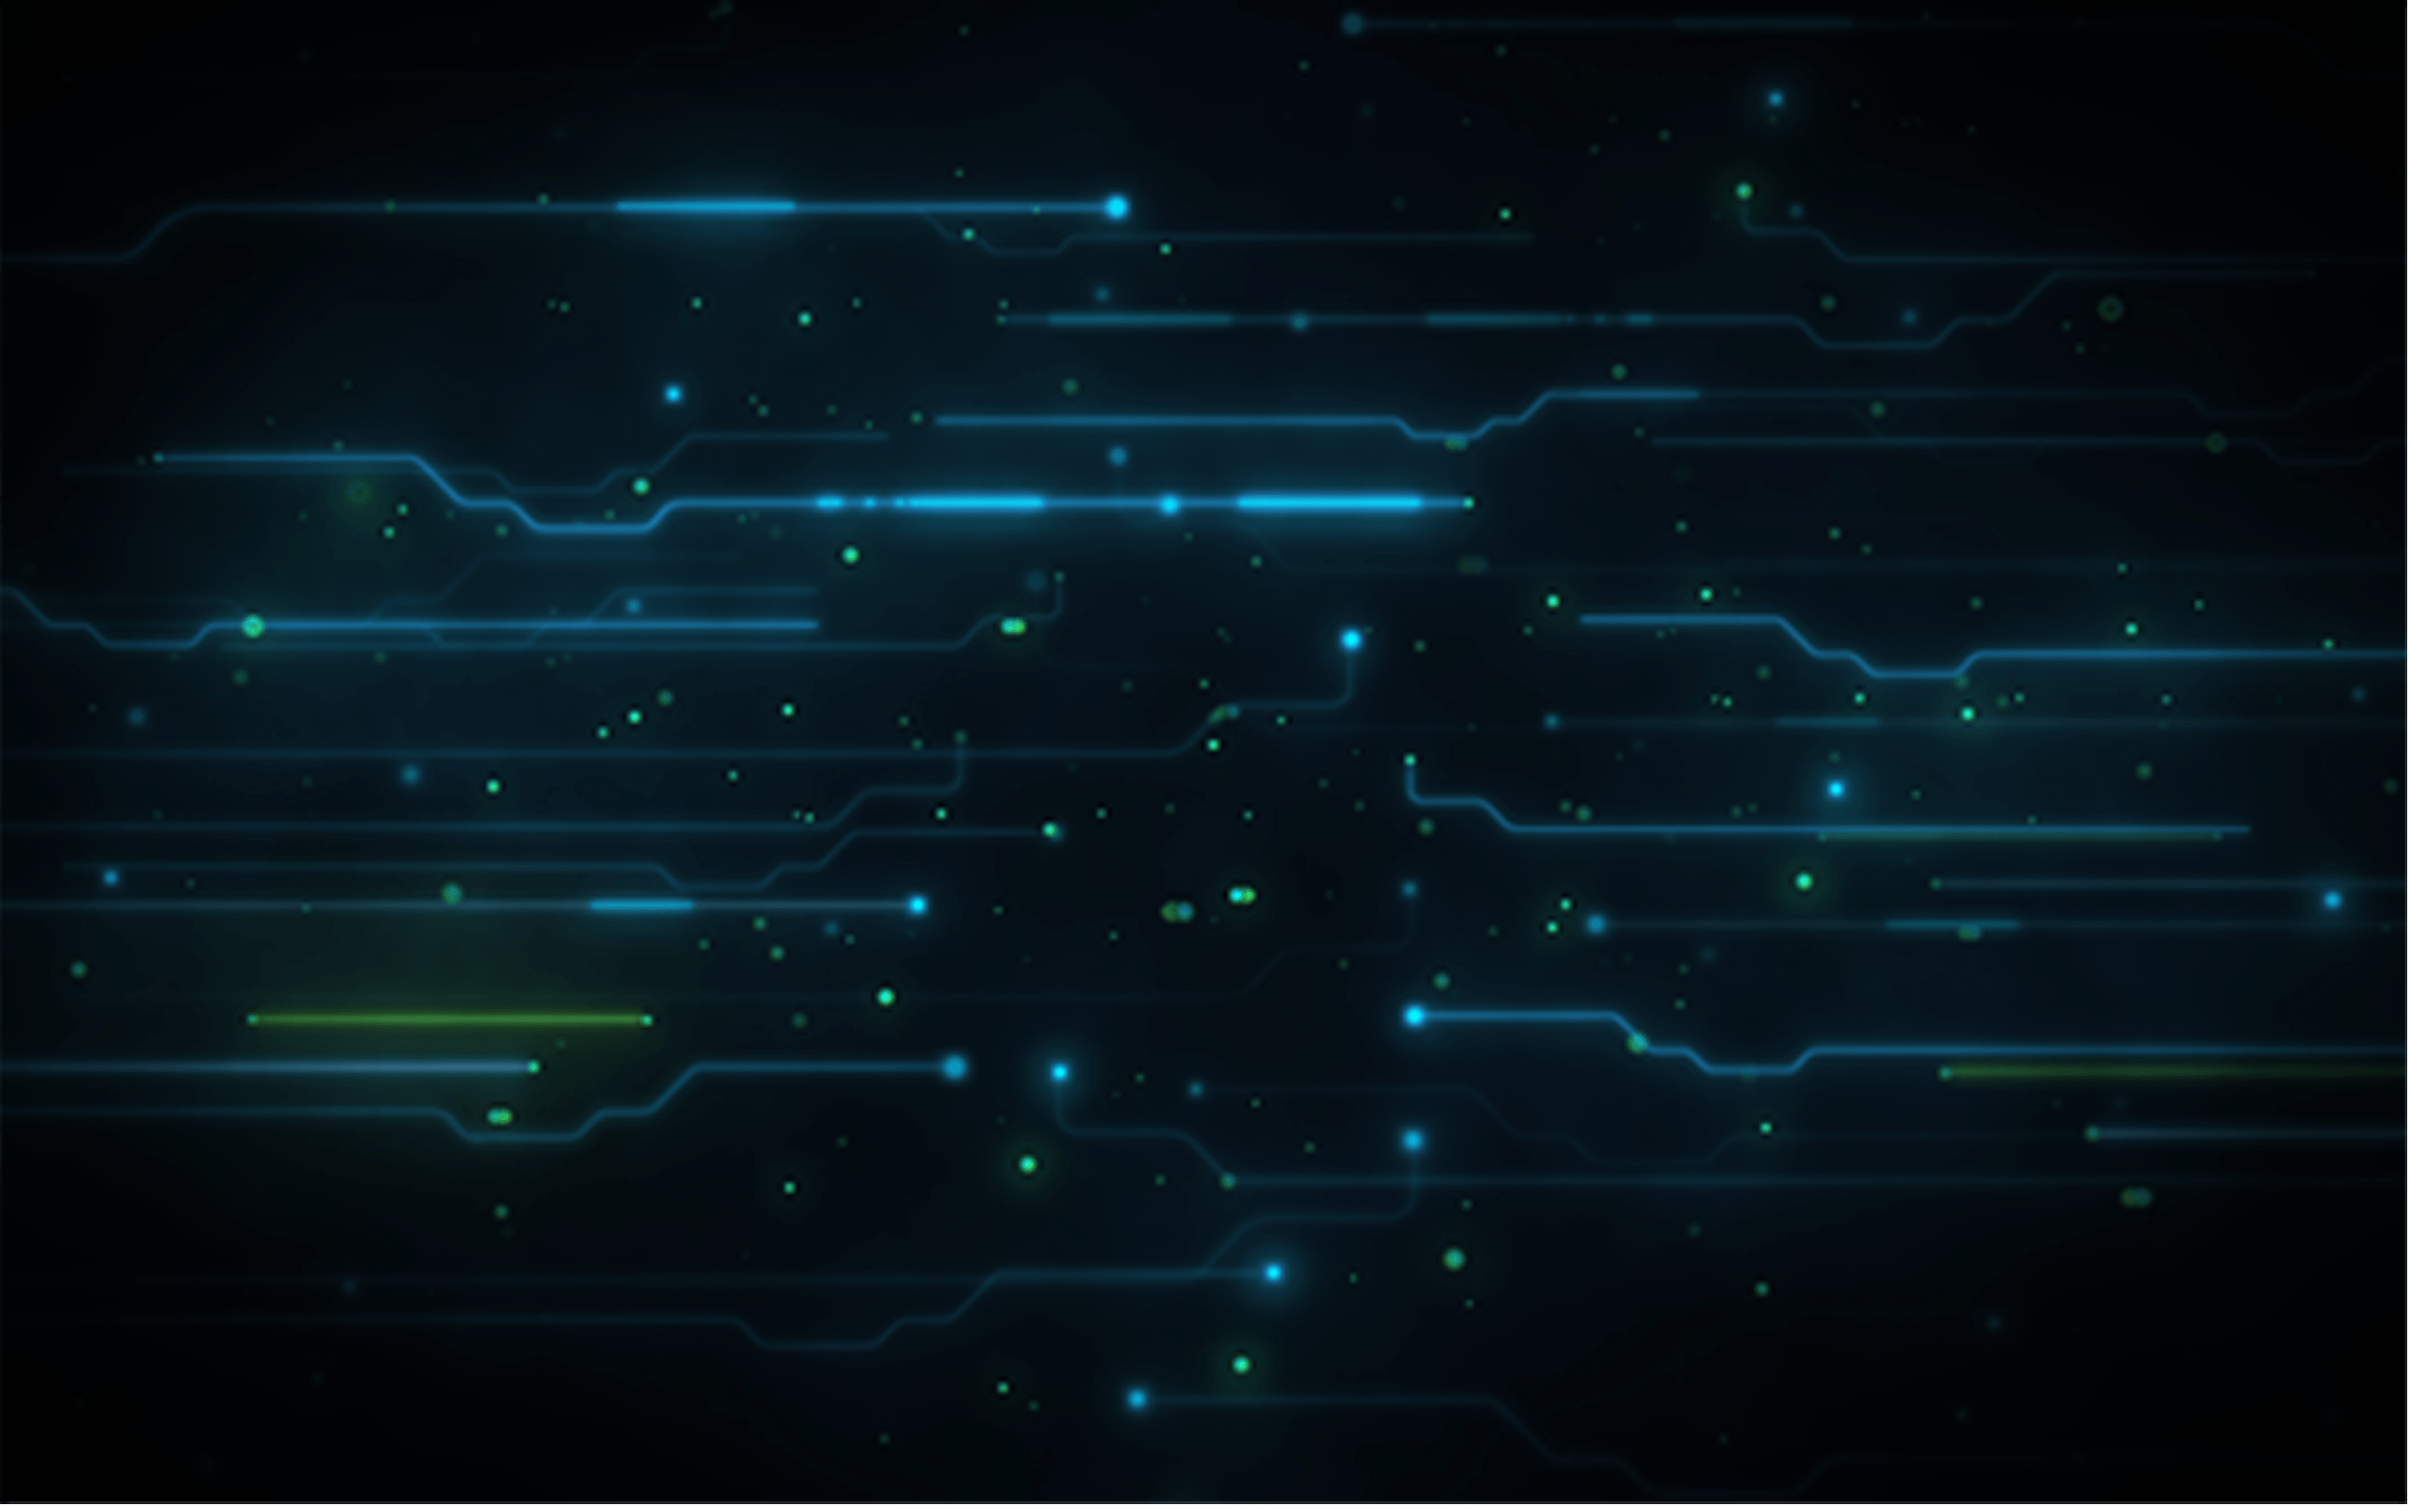
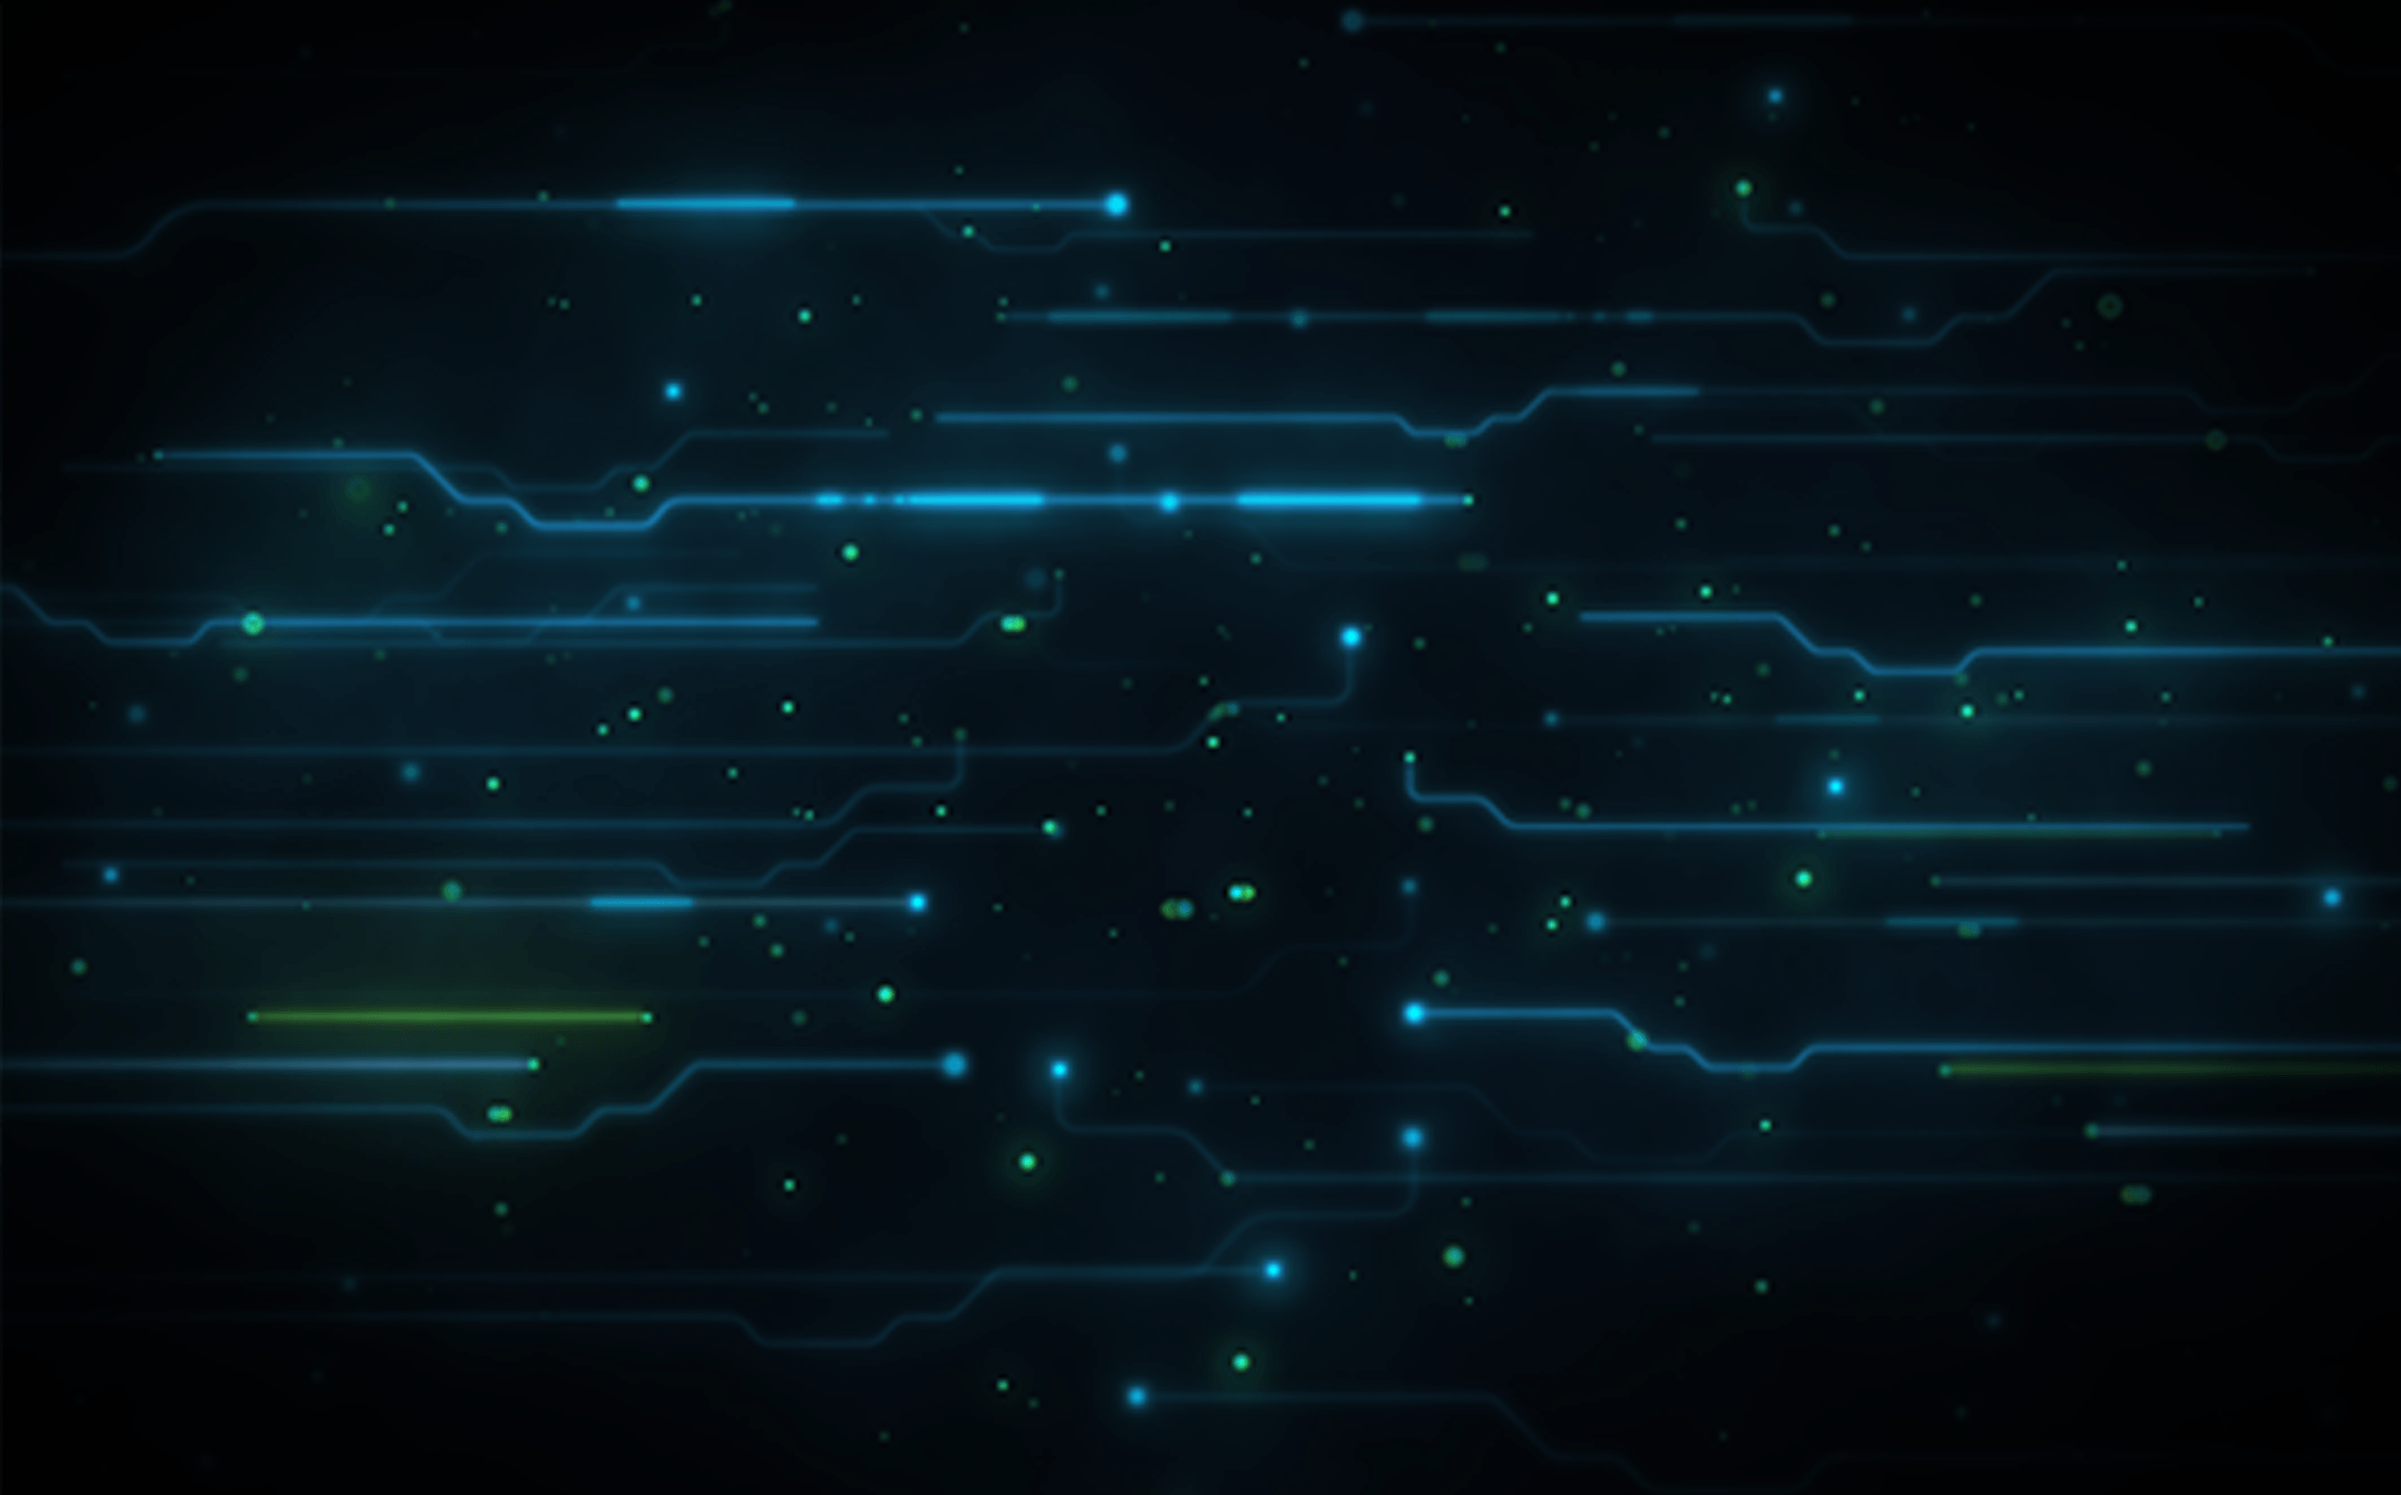
new background and  line break
Project Management, Problem Solving line break

diff --git a/index.html b/index.html
@@ -48,11 +48,11 @@
                                     <div class="skill solutions" style="top: 25%; left: 93%;">SQL</div>
                                     
                                     <!-- Bottom skills -->
-                                    <div class="skill customers" style="top: 77%; right: -17%;">Problem Solving</div>
+                                    <div class="skill customers" style="top: 77%; left: 93%;">Problem <br> Solving</div>
                                     <div class="skill customers" style="top: 92.7%; left: 77%;">Saas</div>
                                     <div class="skill customers" style="top: 100%; left: 50%;">Integration</div>
                                     <div class="skill customers" style="top: 90.7%; left: 23%;">Teamwork</div>
-                                    <div class="skill customers" style="top: 77%; left: 10%;">Project Management</div>
+                                    <div class="skill customers" style="top: 77%; left: 7%;">Project <br> Management</div>
                                     </div>
                                 </div>
             

diff --git a/css/styles.css b/css/styles.css
@@ -4,11 +4,11 @@ body {
     margin: 0;
     padding: 0;
     box-sizing: border-box;
-    background: url('../images/background-6.jpg') repeat center center/cover;
+    background: url('../images/background-5.png') repeat center center/cover;
   }
 
   #banner, #about_me {
-    background-color: #212529b5;
+    background-color: #212529cc;
     color: #ffffff;
   }
   #banner {
